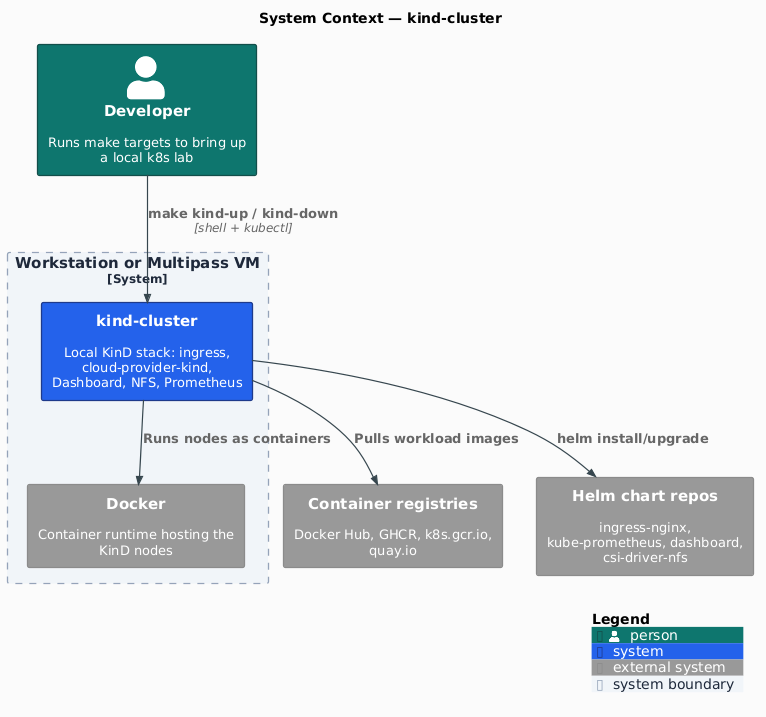
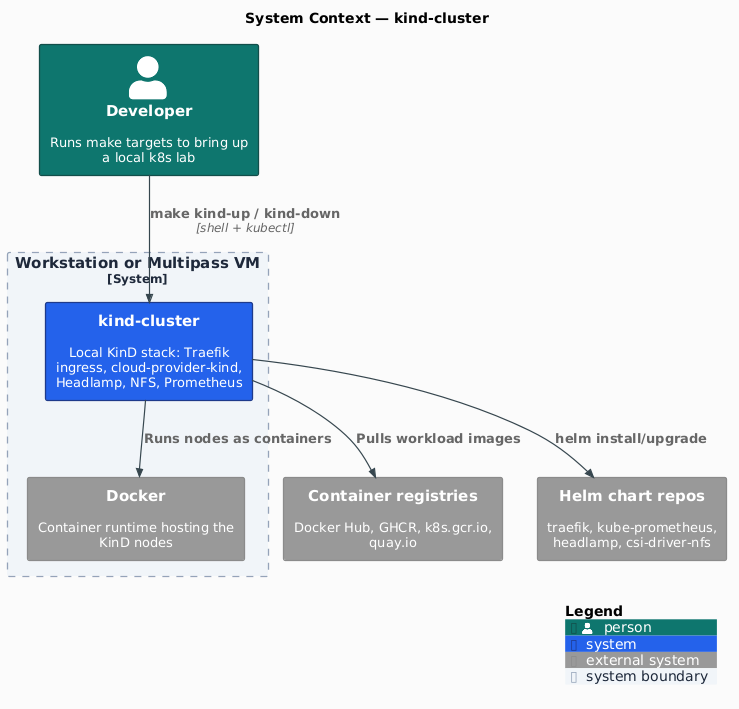
fix: project-review remediation — diagrams, CI paths, e2e depth, doc/version drift
Foundation:
- Makefile: add check-toolchain-alignment (kubectl/kind mirrored across
  Makefile/.mise.toml/Dockerfile/cloud-init) as static-check's first prereq;
  proven RED-on-drift.
- renovate.json: track the C4-PlantUML !include version in docs/diagrams/*.puml
  (was un-trackable prose); buffer the mise manager 3 days at all update types
  (aqua: github-tags can see a tag before the release artifact publishes → CI 404).
- CI sibling workflows: e2e-metallb / monitoring-test / registry-test paths now
  include the shared smoke chain (scripts/e2e-smoke.sh, scripts/lib.sh, and for
  metallb scripts/kind-add-cloud-provider-kind.sh). A fix that breaks only the
  MetalLB/monitoring path isn't exercised by ci.yml's cloud-provider-kind e2e job,
  so without these it shipped untested until the weekly cron.

Diagrams (fact-checked to the install scripts, re-rendered, diagrams-check green):
- c4-{context,container,deployment}.puml: ingress-nginx -> Traefik v3 (chart 40.x),
  Kubernetes Dashboard + Kong -> Headlamp 0.42.x (ClusterIP :80, :8081 port-forward).

E2E depth (scripts/e2e-smoke.sh — all live-spiked on a real cluster, 28/28):
- Headlamp: rollout + UI reachability (port-forward) + cluster-admin RBAC proven
  via the ClusterRoleBinding roleRef (NOT `kubectl auth can-i --token=<value>` —
  keeps the token out of argv).
- golang-web deployment readiness; foo-service load-balances across both backends;
[…]

diff --git a/CLAUDE.md b/CLAUDE.md
@@ -20,7 +20,7 @@ scripts/              # Bash scripts for cluster lifecycle and app deployment
 tests/                # bats unit tests for scripts/lib.sh (make test)
 k8s/                  # Kubernetes manifests (kind config, Headlamp, NFS, etc.)
 images/               # Dockerfiles (kubectl-test image)
-docs/diagrams/        # PlantUML C4 sources (.puml) + rendered PNGs (out/)
+docs/diagrams/        # PlantUML C4 sources (.puml) + rendered PNGs (out/) + .drawio exports (drawio/)
 vm/                   # Multipass cloud-init playbook
 .github/workflows/    # CI: ci.yml, e2e-metallb.yml, monitoring-test.yml,
                       #   registry-test.yml, cleanup-runs.yml
@@ -64,6 +64,10 @@ make ci-run                            # Run GitHub Actions workflow locally via
 make e2e                               # install-all + e2e-smoke (full pipeline; fresh-checkout convenience)
 make e2e-smoke                         # Body-asserting smoke test on a running cluster (no install)
 make vulncheck                         # Alias for trivy-fs (portfolio-standard target name)
+
+# Local registry cluster (separate from install-all)
+make registry                          # Create a KinD cluster wired to a local registry (localhost:5001)
+make registry-test                     # Push hello-app:2.0 to the local registry and deploy it (run after 'make registry')
 ```
 
 `make ci-run` only iterates `static-check` + `docker` jobs under `act`. The `e2e` and `e2e-metallb` jobs are skipped because KinD's Docker-in-Docker requirement is unstable under `act push`. Push to a feature branch and watch the real workflow when changing anything in the e2e path (deploy scripts, ingress wiring, K8s manifests).
@@ -71,9 +75,9 @@ make vulncheck                         # Alias for trivy-fs (portfolio-standard 
 ## CI/CD
 
 - **ci.yml** — runs on push to `main`, tags `v*`, and PRs. Five jobs: `changes` → `static-check` → (`docker` ‖ `e2e`) → `ci-pass`. The `changes` job uses `dorny/paths-filter` to detect whether any non-doc file changed; downstream jobs short-circuit on doc-only changes via `if: needs.changes.outputs.code == 'true'`. `static-check` and `e2e` use `jdx/mise-action` to install the pinned toolchain from `.mise.toml` (kind, kubectl, jq, shellcheck, actionlint, gitleaks, trivy, hadolint, act — Renovate-tracked via the mise manager). The `e2e` job installs **cloud-provider-kind** as the LoadBalancer provider, runs all install/deploy scripts, polls until the ingress route is data-plane-ready (K1.5 — IP assigned ≠ IP routable), then `make e2e-smoke` (delegates to `scripts/e2e-smoke.sh`) for body-asserting smoke tests via `docker exec` curl. `helm/kind-action` was dropped in favor of explicit `make` invocations to avoid the action's built-in Post-step teardown flaking on Docker daemon `did not receive an exit event` errors at job-end.
-- **e2e-metallb.yml** — weekly cron (Sunday 04:00 UTC) + `workflow_dispatch` + push on `scripts/kind-add-metallb.sh` (positive-include `paths:` filter is intentional — workflow only runs when its own code changes). Mirrors the `e2e` job but installs **MetalLB** instead of cloud-provider-kind; same K1.5 route-readiness poll before `LB=metallb make e2e-smoke`. Final step runs `scripts/e2e-migrate-smoke.sh` to exercise the **MetalLB → cloud-provider-kind migration** path so regressions in `migrate-from-metallb.sh` surface here.
-- **monitoring-test.yml** — weekly cron (Sunday 05:00 UTC) + `workflow_dispatch` + push on `scripts/kind-add-kube-prometheus-stack.sh`. Brings up the full stack via `make install-all` (cloud-provider-kind), installs `kube-prometheus-stack`, then runs `TEST_MONITORING=yes make e2e-smoke` to assert Grafana gets a LoadBalancer IP and the admin secret is mintable. Off the default install-all path — kept on its own cron to keep PR feedback fast.
-- **registry-test.yml** — weekly cron (Sunday 06:00 UTC) + `workflow_dispatch` + push on registry-related files. Exercises the alternative `make registry` cluster (containerd-mirrored local registry at `localhost:5001`) via `make registry-test` (pull → retag → push → deploy → curl). Distinct from the install-all flow; separate workflow rather than another job.
+- **e2e-metallb.yml** — weekly cron (Sunday 04:00 UTC) + `workflow_dispatch` + push on its MetalLB/migration scripts and the shared smoke chain (`scripts/kind-add-metallb.sh`, `scripts/migrate-from-metallb.sh`, `scripts/e2e-migrate-smoke.sh`, `scripts/kind-add-cloud-provider-kind.sh`, `scripts/e2e-smoke.sh`, `scripts/lib.sh`, the workflow file) (positive-include `paths:` filter is intentional — runs when its own or the shared smoke-chain code changes; the shared scripts are included so a fix that only breaks the MetalLB path, which `ci.yml`'s cloud-provider-kind `e2e` job doesn't exercise, isn't missed until the weekly cron). Mirrors the `e2e` job but installs **MetalLB** instead of cloud-provider-kind; same K1.5 route-readiness poll before `LB=metallb make e2e-smoke`. Final step runs `scripts/e2e-migrate-smoke.sh` to exercise the **MetalLB → cloud-provider-kind migration** path so regressions in `migrate-from-metallb.sh` surface here.
+- **monitoring-test.yml** — weekly cron (Sunday 05:00 UTC) + `workflow_dispatch` + push on `scripts/kind-add-kube-prometheus-stack.sh` plus the shared smoke chain (`scripts/e2e-smoke.sh`, `scripts/lib.sh`, the workflow file — the `TEST_MONITORING` assertions live in `e2e-smoke.sh`, which `ci.yml` never runs with `TEST_MONITORING=yes`). Brings up the full stack via `make install-all` (cloud-provider-kind), installs `kube-prometheus-stack`, then runs `TEST_MONITORING=yes make e2e-smoke` to assert Grafana gets a LoadBalancer IP and the admin secret is mintable. Off the default install-all path — kept on its own cron to keep PR feedback fast.
+- **registry-test.yml** — weekly cron (Sunday 06:00 UTC) + `workflow_dispatch` + push on registry-related files (`scripts/kind-with-registry.sh`, `scripts/test-registry.sh`, `scripts/lib.sh`, `k8s/helloweb-deployment-local.yaml`, the workflow file). Exercises the alternative `make registry` cluster (containerd-mirrored local registry at `localhost:5001`) via `make registry-test` (pull → retag → push → deploy → curl). Distinct from the install-all flow; separate workflow rather than another job.
 - **cleanup-runs.yml** — weekly cron (Sunday midnight). Two jobs: `cleanup-runs` (prunes old runs, keeps latest 5) and `cleanup-caches` (deletes caches from closed PR branches).
 
 ### Paths that CI does NOT exercise
@@ -81,7 +85,7 @@ make vulncheck                         # Alias for trivy-fs (portfolio-standard 
 The following paths require resources GitHub-hosted runners can't reliably provide; they are verified manually before each release:
 
 - **`make vm-up` / `make vm-install-all` (Multipass)** — nested virtualization isn't reliably supported on `ubuntu-24.04` GitHub-hosted runners; cloud-init bootstrap takes 3–5 minutes; CI cost outweighs catch rate. Verify locally before tagging a release.
-- **`make nfs-host-setup`** — modifies `/etc/exports`, opens the firewall, requires interactive `sudo`. Out of scope for unattended CI. Verify locally on Ubuntu/Debian before tagging.
+- **`make nfs-host-setup`** — modifies `/etc/exports`, opens the firewall, requires interactive `sudo`. Out of scope for unattended CI. Verify locally on Ubuntu/Debian before tagging. The host-NFS provisioner has an opt-in smoke assertion gated behind `TEST_NFS_HOST=yes` (asserts the `nfs-host` StorageClass exists and `k8s/nfs/pvc.yaml`'s `demo-claim` PVC binds); it stays manual-only for the same reason — run `make nfs-host-setup && make nfs-host-provisioner NFS_SERVER=<ip>` then `TEST_NFS_HOST=yes make e2e-smoke`.
 
 ## Dependencies
 
@@ -89,7 +93,7 @@ Runtime (user provides): Docker, helm, curl, base64.
 
 Pinned in [`.mise.toml`](./.mise.toml) and installed by `make deps` via [mise](https://mise.jdx.dev): `kind`, `kubectl`, `jq`, `shellcheck`, `actionlint`, `gitleaks`, `trivy`, `hadolint`, `act`, `bats`. `make deps` auto-bootstraps mise into `~/.local/bin` if missing, then runs `mise install` (idempotent; no-op at pinned versions).
 
-Docker-image-pinned in Makefile (Renovate-tracked via inline `# renovate:` comments): `KUBECTL_VERSION` (shared with `images/Dockerfile` `--build-arg`; kept in sync with `aqua:kubernetes/kubectl` in `.mise.toml` via the `kubectl` packageRule), `MERMAID_CLI_VERSION`, `PLANTUML_VERSION`, `PUML2DRAWIO_VERSION`, `KIND_NODE_IMAGE`, `CLOUD_PROVIDER_KIND_VERSION`. `mermaid-cli` is invoked from `make mermaid-lint` (part of the `static-check` composite); `plantuml/plantuml` from `make diagrams` / `diagrams-check`.
+Docker-image-pinned in Makefile (Renovate-tracked via inline `# renovate:` comments): `KUBECTL_VERSION` (shared with `images/Dockerfile` `--build-arg`; kept in sync with `aqua:kubernetes/kubectl` in `.mise.toml` via the `kubectl` packageRule), `MERMAID_CLI_VERSION`, `PLANTUML_VERSION`, `PUML2DRAWIO_VERSION`, `KIND_NODE_IMAGE`, `CLOUD_PROVIDER_KIND_VERSION`, `ACT_UBUNTU_VERSION` (catthehacker/ubuntu). `mermaid-cli` is invoked from `make mermaid-lint` (part of the `static-check` composite); `plantuml/plantuml` from `make diagrams` / `diagrams-check`.
 
 No Go modules; no package manager lockfiles.
 

diff --git a/README.md b/README.md
@@ -5,13 +5,13 @@
 
 # kind-cluster — Local Kubernetes Lab on KinD
 
-Local Kubernetes lab on Docker via [KinD](https://kind.sigs.k8s.io/) — ingress, LoadBalancer (cloud-provider-kind, or MetalLB), Headlamp UI, RWX NFS storage, and Prometheus wired up out of the box. Run on your host, or inside a throwaway Multipass VM.
+Local Kubernetes lab on Docker via [KinD](https://kind.sigs.k8s.io/) — ingress, LoadBalancer (cloud-provider-kind, or MetalLB), Headlamp UI, RWX NFS storage, a local image registry, and Prometheus wired up out of the box. Run on your host, or inside a throwaway Multipass VM.
 
 <img src="docs/diagrams/out/c4-context.png" alt="System Context — kind-cluster" width="700">
 
 | Component | Technology | Rationale |
 |-----------|-----------|-----------|
-| Cluster | [KinD](https://kind.sigs.k8s.io/) v0.31.0 on Docker | Fastest local k8s — single binary, multi-node config, no VM overhead |
+| Cluster | [KinD](https://kind.sigs.k8s.io/) v0.32.0 on Docker | Fastest local k8s — single binary, multi-node config, no VM overhead |
 | Ingress | [Traefik](https://traefik.io/) v3 (chart 40.x) | Replaces the [retired](https://www.kubernetes.io/blog/2025/11/11/ingress-nginx-retirement/) ingress-nginx; supports `networking.k8s.io/v1` Ingress + Gateway API on one binary |
 | Load Balancer (default) | [cloud-provider-kind](https://github.com/kubernetes-sigs/cloud-provider-kind) v0.10.0 | One host container watches `Service: LoadBalancer` and hands out IPs from the `kind` docker bridge — routable from your laptop with zero extra setup. Kind-team maintained. |
 | Load Balancer (alternative) | [MetalLB](https://metallb.universe.tf/) v0.16.0 | In-cluster install (controller + `speaker` DaemonSet + CRDs). Pick it when you need L2/BGP announcement parity with prod. Enable with `LB=metallb make install-all` — see [Which LoadBalancer?](#which-loadbalancer). |
@@ -52,15 +52,15 @@ Pinned in [`.mise.toml`](./.mise.toml), auto-installed by `make deps` via [mise]
 
 | Tool | Pinned version |
 |------|----------------|
-| [kind](https://kind.sigs.k8s.io/) | 0.31.0 |
+| [kind](https://kind.sigs.k8s.io/) | 0.32.0 |
 | [kubectl](https://kubernetes.io/docs/tasks/tools/) | 1.36.1 |
 | [jq](https://github.com/jqlang/jq) | 1.8.1 |
 | [shellcheck](https://github.com/koalaman/shellcheck) | 0.11.0 |
 | [actionlint](https://github.com/rhysd/actionlint) | 1.7.12 |
 | [gitleaks](https://github.com/gitleaks/gitleaks) | 8.30.1 |
-| [trivy](https://github.com/aquasecurity/trivy) | 0.70.0 |
+| [trivy](https://github.com/aquasecurity/trivy) | 0.71.0 |
 | [hadolint](https://github.com/hadolint/hadolint) | 2.14.0 |
-| [act](https://github.com/nektos/act) | 0.2.88 |
+| [act](https://github.com/nektos/act) | 0.2.89 |
 | [bats](https://github.com/bats-core/bats-core) | 1.13.0 |
 
 Renovate's native `mise` manager keeps `.mise.toml` up to date (platform automerge enabled).